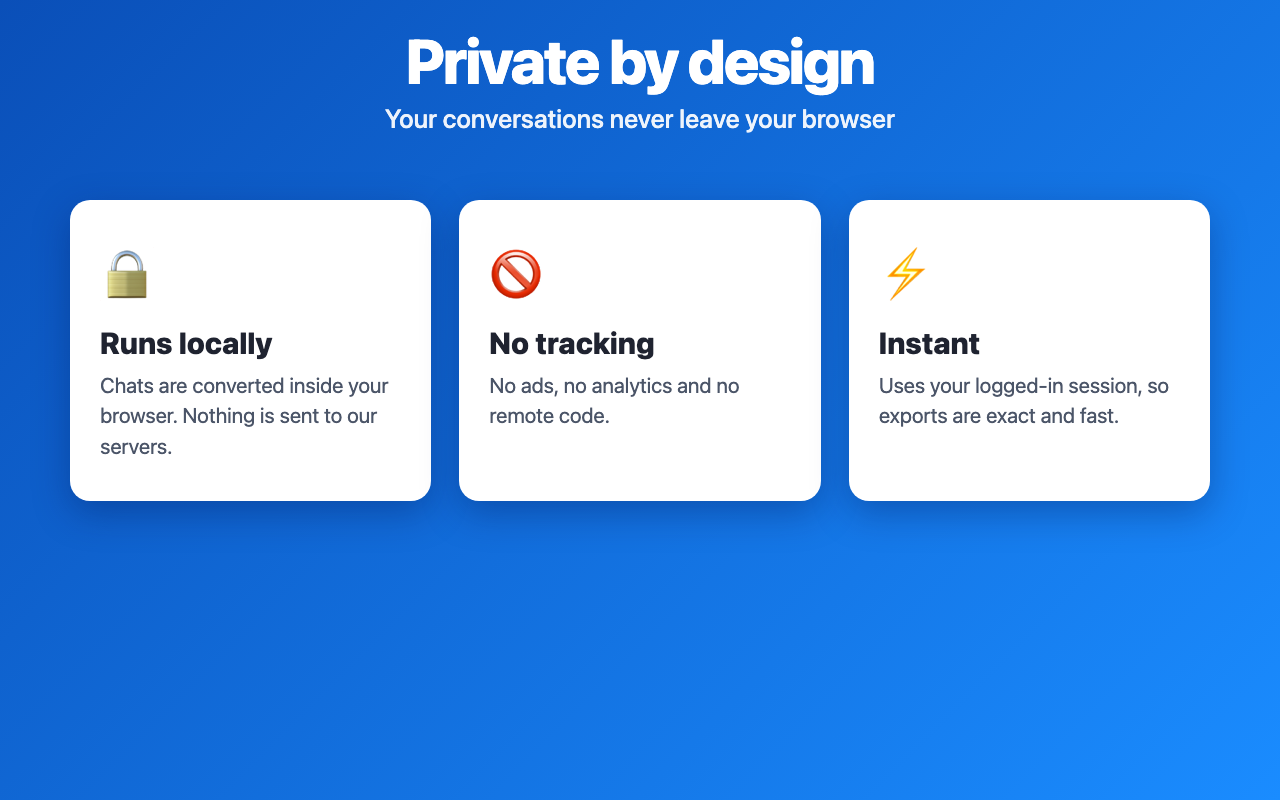
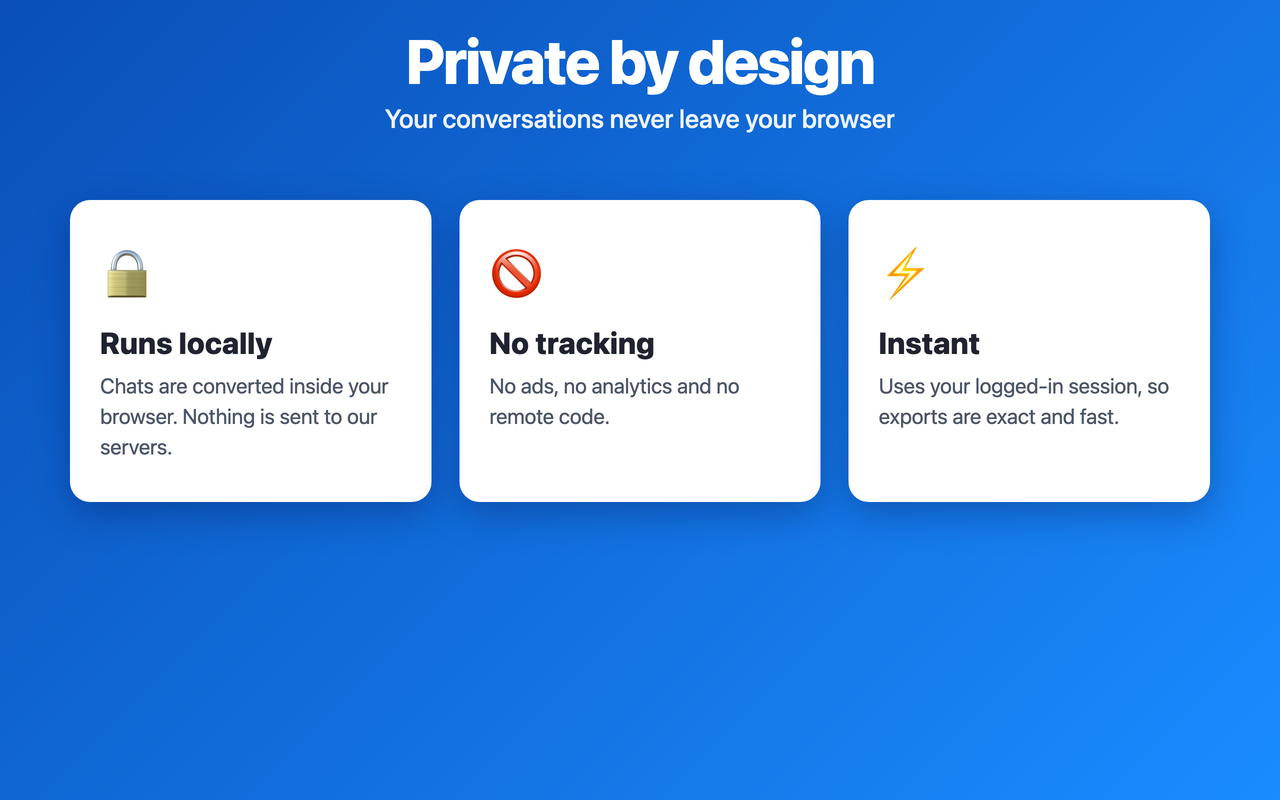
Render store screenshots from the real extension code at 3x and downsample for crisp output

diff --git a/store-assets/compose.js b/store-assets/compose.js
@@ -1,67 +1,59 @@
-// Composes the Web Store screenshots from REAL captures of the extension running on chatgpt.com (store-assets/raw/*.jpg, not committed).
-// Run: node store-assets/compose.js   (needs Google Chrome)
+// Composes the Web Store screenshots (1280x800) from high-DPI renders of the REAL extension UI.
+// 1) node store-assets/harness/capture.js   -> store-assets/raw/*.png (3x renders of the real content scripts)
+// 2) node store-assets/compose.js           -> store-assets/out/*.png (rendered at 2x, downsampled with Lanczos)
 const fs = require('fs'), cp = require('child_process');
 const dir = __dirname, out = dir + '/out', tmp = dir + '/.tmp';
 fs.mkdirSync(out, { recursive: true }); fs.mkdirSync(tmp, { recursive: true });
-const raw = (n) => 'file://' + dir + '/raw/' + n;
-const GRAD = 'linear-gradient(135deg,#0a4fb8 0%,#1a8cff 100%)';
-const page = (title, sub, body) => `<!doctype html><meta charset=utf-8><style>
-*{margin:0;padding:0;box-sizing:border-box}html,body{width:1280px;height:800px;overflow:hidden}
-body{background:${GRAD};color:#fff;font-family:-apple-system,BlinkMacSystemFont,"Segoe UI",Roboto,Helvetica,Arial,sans-serif;position:relative}
-.head{position:absolute;left:0;right:0;top:28px;text-align:center}.head h1{font-size:62px;font-weight:800;letter-spacing:-.03em;line-height:1.05}.head p{font-size:26px;font-weight:500;opacity:.93;margin-top:10px}
-.shot{position:absolute;overflow:hidden;border-radius:14px;box-shadow:0 18px 50px rgba(0,25,90,.55);background:#000}
-.shot img{position:absolute;display:block}
-.pill{position:absolute;background:#fff;color:#0a4fb8;font-weight:800;font-size:24px;padding:12px 22px;border-radius:99px;box-shadow:0 8px 24px rgba(0,25,90,.35)}
-ul.f{position:absolute;list-style:none;font-size:31px;font-weight:700;line-height:1.3}ul.f li{margin:15px 0}ul.f b{color:#bfe0ff}
-</style><div class=head><h1>${title}</h1><p>${sub}</p></div>${body}`;
-// crop(img, x,y,w,h, left,top, scale)
-const crop = (n, x, y, w, h, l, t, s = 1, extra = '') => `<div class=shot style="left:${l}px;top:${t}px;width:${w * s}px;height:${h * s}px;${extra}"><img src="${raw(n)}" style="width:${1568 * s}px;left:${-x * s}px;top:${-y * s}px"></div>`;
-
-const crop2 = (n, x, y, w, h, l, t, s) => `<div class=shot style="left:${l}px;top:${t}px;width:${w * s}px;height:${h * s}px"><img src="${raw(n)}" style="width:${1526 * s}px;left:${-x * s}px;top:${-y * s}px"></div>`;
-const shots = {
-  '1-export-menu': page('Export any ChatGPT chat in one click', 'PDF, Word, Markdown, HTML, Text, JSON, CSV or PNG',
-    crop('menu.jpg', 400, 40, 1168, 706, 56, 150, 0.92)),
-  '2-select-messages': page('Pick exactly the messages you need', 'Questions only, answers only, or tick your own',
-    crop('select.jpg', 400, 0, 1168, 746, 56, 150, 0.87)),
-  '3-pdf-settings': page('Customise your PDF', 'Page size, margins, theme, fonts, page numbers and more',
-    `<ul class=f style="left:90px;top:230px;width:620px"><li><b>✓</b> A4, Letter or Legal</li><li><b>✓</b> Light or dark theme</li><li><b>✓</b> Margins and font size</li><li><b>✓</b> Page numbers</li><li><b>✓</b> Table of contents</li><li><b>✓</b> Page break per prompt</li></ul>`
-    + crop2('settings2.jpg', 971, 60, 555, 684, 640, 150, 0.95)),
-  '4-formats': page('8 formats, nothing left behind', 'Code, tables, math, images and sources are kept',
-    crop2('menu2.jpg', 1215, 12, 263, 586, 800, 160, 1.0)
-    + `<ul class=f style="left:90px;top:210px;width:620px;font-size:34px"><li><b>PDF</b> · <b>Word</b> · <b>Markdown</b></li><li><b>HTML</b> · <b>Text</b> · <b>PNG</b></li><li><b>JSON</b> · <b>CSV</b></li><li style="font-size:26px;font-weight:600;opacity:.92;margin-top:30px">Or copy as rich text straight into Google Docs, Word or Notion</li></ul>`)
-};
-
-// ---- "reference style" shots: solid colour, big bold text, zoomed real UI crops bleeding off the bottom edge
-const SOLID = '#0b63c9', YEL = '#ffd23f';
-const solid = (body) => `<!doctype html><meta charset=utf-8><style>
-*{margin:0;padding:0;box-sizing:border-box}html,body{width:1280px;height:800px;overflow:hidden}
-body{background:${SOLID};font-family:-apple-system,BlinkMacSystemFont,"Segoe UI",Roboto,Helvetica,Arial,sans-serif;position:relative}
-.y{color:${YEL};font-weight:800;letter-spacing:-.01em;text-shadow:0 3px 0 #052e66}
-.bul{position:absolute;left:50px;top:36px;font-size:50px;line-height:1.2;width:1190px}.bul div{margin-bottom:2px}
-.shot{position:absolute;overflow:hidden;border-radius:14px 14px 0 0;box-shadow:0 0 0 3px rgba(255,255,255,.9),0 16px 40px rgba(0,20,70,.5);background:#000}
-.shot img{position:absolute;display:block}
-.logo{position:absolute;left:60px;top:40px;width:104px;border-radius:24px;box-shadow:0 6px 18px rgba(0,0,0,.35)}
-.t{position:absolute;left:186px;top:58px;font-size:56px;line-height:1}
-.list{position:absolute;left:60px;top:180px;font-size:66px;line-height:1.12}
-</style>${body}`;
-shots['hero-1-features'] = solid(`<div class="bul y"><div>- Export to PDF, Word, Markdown, HTML ...</div><div>- Export only the messages you need</div><div>- Customise your PDF and file names</div><div>- Keeps code, tables, math and images</div></div>`
-  + crop2('menu2.jpg', 1215, 12, 263, 560, 70, 320, 0.85) + crop2('select2.jpg', 971, 0, 555, 620, 330, 320, 0.8) + crop2('settings2.jpg', 971, 60, 555, 620, 800, 320, 0.8));
-shots['hero-2-formats'] = solid(`<img class=logo src="${raw('icon128.png')}"><div class="t y">ChatGPT Exporter</div>`
-  + `<div class="list y"><div>PDF</div><div>Word</div><div>Markdown</div><div>HTML</div><div>Text</div><div>CSV · JSON</div></div>`
-  + crop2('menu2.jpg', 1215, 12, 263, 586, 560, 214, 1.0) + crop2('select2.jpg', 971, 0, 555, 784, 850, 214, 0.78));
-
-const privacy = page('Private by design', 'Your conversations never leave your browser',
-  `<div style="position:absolute;left:70px;right:70px;top:200px;display:flex;gap:28px">${[['🔒', 'Runs locally', 'Chats are converted inside your browser. Nothing is sent to our servers.'], ['🚫', 'No tracking', 'No ads, no analytics and no remote code.'], ['⚡', 'Instant', 'Uses your logged-in session, so exports are exact and fast.']].map(c => `<div style="flex:1;background:#fff;color:#1f2330;border-radius:20px;padding:40px 30px;box-shadow:0 12px 36px rgba(0,25,90,.35)"><div style="font-size:54px">${c[0]}</div><div style="font-weight:800;font-size:30px;margin:14px 0 10px">${c[1]}</div><div style="font-size:21px;color:#4b5568;line-height:1.45">${c[2]}</div></div>`).join('')}</div>`);
-shots['6-private'] = privacy;
-if (fs.existsSync(dir + '/raw/export.png')) {
-  shots['5-export-result'] = page('Clean, ready-to-share documents', 'Code, tables and math come out perfectly formatted',
-    `<div class=shot style="left:290px;top:150px;width:700px;height:650px;border-radius:14px 14px 0 0;background:#fff"><img src="${raw('export.png')}" style="width:700px;left:0;top:0"></div>`);
-}
 const CHROME = '/Applications/Google Chrome.app/Contents/MacOS/Google Chrome';
+const raw = (n) => 'file://' + dir + '/raw/' + n;
+const dims = {}; // natural CSS size (px / 3) of each raw png
+for (const f of fs.readdirSync(dir + '/raw').filter((x) => x.endsWith('.png'))) {
+  const b = fs.readFileSync(dir + '/raw/' + f); dims[f] = [b.readUInt32BE(16) / 3, b.readUInt32BE(20) / 3];
+}
+// export document render (real HTML export) at 3x
+cp.execFileSync(CHROME, ['--headless=new', '--hide-scrollbars', '--window-size=700,1100', '--force-device-scale-factor=3', '--virtual-time-budget=5000', `--screenshot=${dir}/raw/export.png`, 'file://' + dir + '/raw/export.html'], { stdio: 'ignore' });
+dims['export.png'] = [700, 1100];
+
+const SOLID = '#0b63c9', YEL = '#ffd23f';
+const GRAD = 'linear-gradient(135deg,#0a4fb8 0%,#1a8cff 100%)';
+const base = (bg) => `<!doctype html><meta charset=utf-8><style>
+*{margin:0;padding:0;box-sizing:border-box}html,body{width:1280px;height:800px;overflow:hidden}
+body{background:${bg};color:#fff;font-family:-apple-system,BlinkMacSystemFont,"Segoe UI",Roboto,Helvetica,Arial,sans-serif;position:relative}
+.head{position:absolute;left:0;right:0;top:28px;text-align:center}.head h1{font-size:62px;font-weight:800;letter-spacing:-.03em;line-height:1.05}.head p{font-size:26px;font-weight:500;opacity:.93;margin-top:10px}
+.y{color:${YEL};font-weight:800;letter-spacing:-.01em;text-shadow:0 3px 0 #052e66}
+.bul{position:absolute;left:50px;top:36px;font-size:50px;line-height:1.2;width:1190px}
+.shot{position:absolute;overflow:hidden;border-radius:14px 14px 0 0;box-shadow:0 0 0 3px rgba(255,255,255,.92),0 16px 40px rgba(0,20,70,.5);background:#000}
+.shot.full{border-radius:14px}.shot img{display:block}
+.logo{position:absolute;left:60px;top:40px;width:104px;border-radius:24px;box-shadow:0 6px 18px rgba(0,0,0,.35)}
+.t{position:absolute;left:186px;top:58px;font-size:56px;line-height:1}.list{position:absolute;left:60px;top:180px;font-size:66px;line-height:1.12}
+ul.f{position:absolute;list-style:none;font-size:31px;font-weight:700;line-height:1.3}ul.f li{margin:15px 0}ul.f b{color:#bfe0ff}
+</style>`;
+// el(name, left, top, scale, maxHeight?)  - whole raw render shown at `scale` x its CSS size, clipped to maxHeight
+const el = (n, l, t, s, h, cls = '') => { const [w, hh] = dims[n]; return `<div class="shot ${cls}" style="left:${l}px;top:${t}px;width:${w * s}px;height:${Math.min(h || 9999, hh * s)}px"><img src="${raw(n)}" style="width:${w * s}px"></div>`; };
+const page = (title, sub, body, bg = GRAD) => base(bg) + `<div class=head><h1>${title}</h1><p>${sub}</p></div>${body}`;
+const browser = (inner) => `<div style="position:absolute;left:90px;right:90px;top:196px;bottom:0;border-radius:14px 14px 0 0;overflow:hidden;box-shadow:0 20px 60px rgba(0,20,80,.5);background:#fff"><div style="height:36px;background:#e8eaed;display:flex;align-items:center;gap:7px;padding:0 14px"><i style="width:11px;height:11px;border-radius:50%;background:#c4c7cc"></i><i style="width:11px;height:11px;border-radius:50%;background:#c4c7cc"></i><i style="width:11px;height:11px;border-radius:50%;background:#c4c7cc"></i><span style="margin-left:14px;background:#fff;border-radius:12px;padding:3px 16px;font-size:12px;color:#555">chatgpt.com/c/hash-map-collisions</span></div><div style="position:absolute;top:36px;left:0;right:0;bottom:0;overflow:hidden"><img src="${raw(inner)}" style="width:1100px;display:block"></div></div>`;
+
+const shots = {
+  'hero-1-features': base(SOLID) + `<div class="bul y"><div>- Export to PDF, Word, Markdown, HTML ...</div><div>- Export only the messages you need</div><div>- Customise your PDF and file names</div><div>- Keeps code, tables, math and images</div></div>`
+    + el('menu.png', 60, 322, 1.3, 520) + el('select.png', 330, 322, 1.15, 520) + el('settings-pdf.png', 790, 322, 1.15, 520),
+  'hero-2-formats': base(SOLID) + `<img class=logo src="${raw('icon128.png')}"><div class="t y">ChatGPT Exporter</div><div class="list y"><div>PDF</div><div>Word</div><div>Markdown</div><div>HTML</div><div>Text</div><div>CSV · JSON</div></div>`
+    + el('menu.png', 570, 190, 1.5, 700) + el('select.png', 860, 190, 1.1, 700),
+  '1-export-menu': page('Export any ChatGPT chat in one click', 'PDF, Word, Markdown, HTML, Text, JSON, CSV or PNG', browser('scene-menu.png')),
+  '2-select-messages': page('Pick exactly the messages you need', 'Questions only, answers only, or tick your own', browser('scene-select.png')),
+  '3-pdf-settings': page('Customise your PDF', 'Page size, margins, theme, fonts, page numbers and more',
+    `<ul class=f style="left:90px;top:230px;width:620px"><li><b>✓</b> A4, Letter or Legal</li><li><b>✓</b> Light or dark theme</li><li><b>✓</b> Margins and font size</li><li><b>✓</b> Page numbers</li><li><b>✓</b> Table of contents</li><li><b>✓</b> Page break per prompt</li></ul>` + el('settings-pdf.png', 740, 160, 1.12, 640)),
+  '4-formats': page('8 formats, nothing left behind', 'Code, tables, math, images and sources are kept',
+    `<ul class=f style="left:90px;top:210px;width:620px;font-size:34px"><li><b>PDF</b> · <b>Word</b> · <b>Markdown</b></li><li><b>HTML</b> · <b>Text</b> · <b>PNG</b></li><li><b>JSON</b> · <b>CSV</b></li><li style="font-size:26px;font-weight:600;opacity:.92;margin-top:30px">Or copy as rich text straight into Google Docs, Word or Notion</li></ul>` + el('menu.png', 800, 160, 1.4, 640)),
+  '5-export-result': page('Clean, ready-to-share documents', 'Code, tables and math come out perfectly formatted',
+    `<div class=shot style="left:290px;top:150px;width:700px;height:650px;background:#fff"><img src="${raw('export.png')}" style="width:700px"></div>`),
+  '6-private': page('Private by design', 'Your conversations never leave your browser',
+    `<div style="position:absolute;left:70px;right:70px;top:200px;display:flex;gap:28px">${[['🔒', 'Runs locally', 'Chats are converted inside your browser. Nothing is sent to our servers.'], ['🚫', 'No tracking', 'No ads, no analytics and no remote code.'], ['⚡', 'Instant', 'Uses your logged-in session, so exports are exact and fast.']].map((c) => `<div style="flex:1;background:#fff;color:#1f2330;border-radius:20px;padding:40px 30px;box-shadow:0 12px 36px rgba(0,25,90,.35)"><div style="font-size:54px">${c[0]}</div><div style="font-weight:800;font-size:30px;margin:14px 0 10px">${c[1]}</div><div style="font-size:21px;color:#4b5568;line-height:1.45">${c[2]}</div></div>`).join('')}</div>`)
+};
+fs.copyFileSync(dir + '/../icons/icon128.png', dir + '/raw/icon128.png');
 for (const [n, html] of Object.entries(shots)) {
   const f = `${tmp}/${n}.html`; fs.writeFileSync(f, html);
   const png = `${out}/${n}.png`;
-  cp.execFileSync(CHROME, ['--headless=new', '--disable-gpu', '--hide-scrollbars', '--window-size=1280,800', '--force-device-scale-factor=1', '--allow-file-access-from-files', `--screenshot=${png}`, 'file://' + f], { stdio: 'ignore' });
-  cp.execFileSync('python3', ['-c', `from PIL import Image;im=Image.open("${png}").convert("RGB").crop((0,0,1280,800));im.save("${png}")`]);
+  cp.execFileSync(CHROME, ['--headless=new', '--disable-gpu', '--hide-scrollbars', '--window-size=1280,800', '--force-device-scale-factor=2', '--allow-file-access-from-files', `--screenshot=${png}`, 'file://' + f], { stdio: 'ignore' });
+  cp.execFileSync('python3', ['-c', `from PIL import Image;im=Image.open("${png}").convert("RGB").crop((0,0,2560,1600)).resize((1280,800),Image.LANCZOS);im.save("${png}",optimize=True)`]);
   console.log(n);
 }

diff --git a/store-assets/harness/chat.html b/store-assets/harness/chat.html
@@ -1,0 +1,42 @@
+<!doctype html><html class="dark" lang="en"><head><meta charset="utf-8"><title>Hash Map Collisions Explained - ChatGPT</title>
+<style>
+*{box-sizing:border-box}html,body{margin:0;height:100%}body{background:#212121;color:#ececec;font:16px/1.6 -apple-system,BlinkMacSystemFont,"Segoe UI",Roboto,Helvetica,Arial,sans-serif;overflow:hidden}
+.app{display:flex;height:100%}.side{width:56px;background:#171717;display:flex;flex-direction:column;align-items:center;gap:22px;padding-top:20px}.side i{width:20px;height:20px;border:2px solid #d0d0d0;border-radius:6px;opacity:.8}
+.main{flex:1;overflow:hidden;position:relative}.thread{width:720px;margin:0 auto;padding:30px 0 120px}
+.u{display:flex;justify-content:flex-end;margin:6px 0 26px}.u .whitespace-pre-wrap{background:#303030;padding:10px 18px;border-radius:22px;max-width:75%}
+.markdown h2{font-size:22px;margin:0 0 10px}.markdown h3{font-size:18px;margin:22px 0 8px}.markdown p{margin:0 0 12px}
+pre{background:#0d0d0d;border-radius:12px;padding:0;margin:14px 0;overflow:hidden}pre .bar{background:#2f2f2f;padding:8px 16px;font-size:13px;color:#b4b4b4;display:flex;justify-content:space-between}pre code{display:block;padding:16px;font:13.5px/1.6 ui-monospace,Menlo,Consolas,monospace;color:#e6e6e6;white-space:pre}
+.k{color:#c586c0}.f{color:#dcdcaa}.s{color:#ce9178}.n{color:#b5cea8}.c{color:#6a9955}
+table{border-collapse:collapse;width:100%;margin:10px 0 16px;font-size:15px}th{text-align:left;padding:8px 6px;border-bottom:1px solid #444}td{padding:9px 6px;border-bottom:1px solid #333}
+code.i{background:#333;padding:2px 6px;border-radius:6px;font:14px ui-monospace,Menlo,monospace}.math{font-family:"Times New Roman",serif;font-style:italic}
+.input{position:absolute;left:50%;transform:translateX(-50%);bottom:20px;width:720px;height:52px;border-radius:26px;background:#2f2f2f;color:#9a9a9a;padding:13px 22px}
+</style></head><body><div class="app"><div class="side"><i></i><i></i><i></i><i></i><i></i></div><div class="main"><div class="thread" id="thread">
+<div class="u" data-message-author-role="user" data-message-id="m1"><div class="whitespace-pre-wrap">Explain how a hash map handles collisions. Include a short Python example and a table comparing chaining vs open addressing.</div></div>
+<div data-message-author-role="assistant" data-message-id="m2"><div class="markdown">
+<h2>How a Hash Map Handles Collisions</h2>
+<p>A <strong>hash map</strong> stores data as <strong>key–value pairs</strong>. It uses a hash function to convert a key into an index in an underlying array. When two keys land in the same slot you get a <strong>collision</strong>.</p>
+<pre><div class="bar"><span>Python</span><span>Copy</span></div><code><span class="k">class</span> <span class="f">HashMap</span>:
+    <span class="k">def</span> <span class="f">__init__</span>(self, size=<span class="n">8</span>):
+        self.buckets = [[] <span class="k">for</span> _ <span class="k">in</span> <span class="f">range</span>(size)]
+
+    <span class="k">def</span> <span class="f">put</span>(self, key, value):
+        bucket = self.buckets[<span class="f">hash</span>(key) % <span class="f">len</span>(self.buckets)]
+        <span class="k">for</span> pair <span class="k">in</span> bucket:
+            <span class="k">if</span> pair[<span class="n">0</span>] == key:
+                pair[<span class="n">1</span>] = value
+                <span class="k">return</span>
+        bucket.<span class="f">append</span>([key, value])</code></pre>
+<h3>Chaining vs open addressing</h3>
+<table><tr><th>Operation</th><th>Chaining</th><th>Open addressing</th></tr><tr><td>Lookup (average)</td><td><span class="math">O(1)</span></td><td><span class="math">O(1)</span></td></tr><tr><td>Lookup (worst case)</td><td><span class="math">O(n)</span></td><td><span class="math">O(n)</span></td></tr><tr><td>Memory</td><td>Extra list nodes</td><td>Single array</td></tr></table>
+<p>The load factor <code class="i">n / m</code> decides when to resize the table.</p></div></div>
+<div class="u" data-message-author-role="user" data-message-id="m3"><div class="whitespace-pre-wrap">Great. Now show how to resize the table when it gets full.</div></div>
+<div data-message-author-role="assistant" data-message-id="m4"><div class="markdown"><h2>Resizing the table</h2><p>A hash map usually resizes when its load factor passes a threshold such as 0.75. It allocates a larger array and re-inserts every entry.</p></div></div>
+</div><div class="input">Ask ChatGPT</div></div></div>
+<script>
+// Stub of the chrome.* APIs the content scripts use, so the REAL extension code runs outside the extension.
+const mem={};const area={get:async(k)=>{if(k==null)return {...mem};if(typeof k==='string')return k in mem?{[k]:mem[k]}:{};const o={};(Array.isArray(k)?k:Object.keys(k)).forEach(x=>{if(x in mem)o[x]=mem[x]});return o},set:async(o)=>{Object.assign(mem,o)},remove:async()=>{}};
+window.chrome={storage:{sync:area,local:area,onChanged:{addListener(){}}},runtime:{lastError:null,sendMessage(m,cb){cb&&cb(null)},onMessage:{addListener(){}},getURL:x=>x}};
+</script>
+<script src="/src/core/ns.js"></script><script src="/src/core/i18n.js"></script><script src="/src/core/util.js"></script><script src="/src/core/settings.js"></script><script src="/src/core/account.js"></script><script src="/src/core/html2md.js"></script><script src="/src/core/markdown.js"></script><script src="/src/core/zip.js"></script><script src="/src/core/assets.js"></script><script src="/src/adapters/chatgpt.js"></script><script src="/src/exporters/common.js"></script><script src="/src/exporters/htmlbuilder.js"></script><script src="/src/exporters/markdown.js"></script><script src="/src/exporters/text.js"></script><script src="/src/exporters/json.js"></script><script src="/src/exporters/csv.js"></script><script src="/src/exporters/html.js"></script><script src="/src/exporters/docx.js"></script><script src="/src/exporters/pdf.js"></script><script src="/src/exporters/index.js"></script><script src="/src/ui/settings-form.js"></script><script src="/src/ui/styles.js"></script><script src="/src/ui/bulk.js"></script><script src="/src/ui/panel.js"></script>
+<script>CE.adapters.chatgpt.match=()=>true;</script><script src="/src/content.js"></script>
+</body></html>

diff --git a/store-assets/harness/capture.js b/store-assets/harness/capture.js
@@ -1,0 +1,54 @@
+// Renders the REAL extension UI (content scripts + stylesheet) on a mock chat page at high DPI.
+// Run: node store-assets/harness/capture.js   (needs `npm i puppeteer-core` somewhere on NODE_PATH, and Google Chrome)
+const http = require('http'), fs = require('fs'), path = require('path');
+const puppeteer = require(process.env.PUPPETEER_PATH || 'puppeteer-core');
+const ROOT = path.resolve(__dirname, '../..'), OUT = path.resolve(__dirname, '../raw');
+fs.mkdirSync(OUT, { recursive: true });
+const server = http.createServer((req, res) => {
+  let p = decodeURIComponent(req.url.split('?')[0]);
+  if (/^\/c\//.test(p)) p = '/store-assets/harness/chat.html';
+  const f = path.join(ROOT, p);
+  fs.readFile(f, (e, d) => { if (e) { res.writeHead(404); return res.end(); } res.writeHead(200, { 'content-type': f.endsWith('.js') ? 'text/javascript' : f.endsWith('.html') ? 'text/html' : 'application/octet-stream' }); res.end(d); });
+}).listen(0);
+const sleep = (ms) => new Promise((r) => setTimeout(r, ms));
+(async () => {
+  const port = server.address().port;
+  const browser = await puppeteer.launch({ executablePath: '/Applications/Google Chrome.app/Contents/MacOS/Google Chrome', headless: 'new', args: ['--hide-scrollbars'] });
+  const page = await browser.newPage();
+  await page.setViewport({ width: 1100, height: 700, deviceScaleFactor: 3 });
+  await page.goto(`http://localhost:${port}/c/6acee611-9928-83ee-a608-c139cab2da2e`, { waitUntil: 'load' });
+  await sleep(1500);
+  const sr = () => page.evaluateHandle(() => document.getElementById('chat-exporter-root').shadowRoot);
+  const ev = (fn, ...a) => page.evaluate(fn, ...a);
+  const shot = async (name, sel, pad = 0) => {
+    const r = await ev((sel) => { const el = document.getElementById('chat-exporter-root').shadowRoot.querySelector(sel); const b = el.getBoundingClientRect(); return { x: b.x, y: b.y, width: b.width, height: b.height }; }, sel);
+    await page.screenshot({ path: `${OUT}/${name}.png`, clip: { x: Math.max(0, r.x - pad), y: Math.max(0, r.y - pad), width: r.width + pad * 2, height: r.height + pad * 2 } });
+    console.log(name, Math.round(r.width) + 'x' + Math.round(r.height));
+  };
+  await page.screenshot({ path: `${OUT}/scene-dock.png` });
+  // export menu
+  await ev(() => document.getElementById('chat-exporter-root').shadowRoot.querySelectorAll('.split')[1].querySelector('.caret').click());
+  await sleep(400);
+  await page.screenshot({ path: `${OUT}/scene-menu.png` });
+  console.log(await ev(() => JSON.stringify(document.getElementById('chat-exporter-root').shadowRoot.querySelector('.menu.open').getBoundingClientRect())));
+  // (an element-clip screenshot resizes the viewport, which closes the menu, so crop the full-page shot instead)
+  const mr = await ev(() => { const b = document.getElementById('chat-exporter-root').shadowRoot.querySelector('.menu.open').getBoundingClientRect(); return [b.x, b.y, b.width, b.height]; });
+  require('child_process').execFileSync('python3', ['-c', `from PIL import Image;im=Image.open("${OUT}/scene-menu.png");x,y,w,h=[v*3 for v in ${JSON.stringify(mr)}];im.crop((round(x),round(y),round(x+w),round(y+h))).save("${OUT}/menu.png")`]);
+  await page.mouse.click(10, 10); await sleep(300);
+  // select panel (answers preset)
+  await ev(() => document.getElementById('chat-exporter-root').shadowRoot.querySelectorAll('.split')[0].querySelector('.main').click());
+  await sleep(2500);
+  await ev(() => { const r = document.getElementById('chat-exporter-root').shadowRoot; [...r.querySelectorAll('.presets button')][2].click(); });
+  await sleep(500);
+  await page.screenshot({ path: `${OUT}/scene-select.png` });
+  await shot('select', '.panel');
+  // settings
+  await ev(() => { const r = document.getElementById('chat-exporter-root').shadowRoot; const b = r.querySelectorAll('.p-bar .iconbtn'); b[b.length - 1].click(); });
+  await sleep(600);
+  await shot('settings-top', '.panel');
+  await ev(() => { const r = document.getElementById('chat-exporter-root').shadowRoot; const st = r.querySelector('.settings'); const t = [...r.querySelectorAll('.cf-title')].find((e) => /PDF/i.test(e.textContent)); st.scrollTop = t.getBoundingClientRect().top - st.getBoundingClientRect().top + st.scrollTop - 6; });
+  await sleep(400);
+  await page.screenshot({ path: `${OUT}/scene-settings.png` });
+  await shot('settings-pdf', '.panel');
+  await browser.close(); server.close();
+})().catch((e) => { console.error(e); process.exit(1); });

diff --git a/STORE_LISTING.md b/STORE_LISTING.md
@@ -76,7 +76,7 @@ ChatGPT Exporter is an independent tool, not affiliated with, endorsed by or spo
 ```
 
 ## Images to upload (store-assets/out/)
-Screenshots (1280x800, real captures of the extension running on chatgpt.com, composed by `node store-assets/compose.js`), in this order: hero-1-features, hero-2-formats, 1-export-menu, 2-select-messages, 5-export-result, 3-pdf-settings, 4-formats, 6-private. Promo tiles: promo-small-440x280, promo-marquee-1400x560 (`node store-assets/build.js`).
+Screenshots (1280x800, real captures of the extension running on chatgpt.com, rendered from the real extension code: `node store-assets/harness/capture.js` (3x renders on a mock chat page, needs puppeteer-core) then `node store-assets/compose.js` (2x render downsampled to 1280x800)), in this order: hero-1-features, hero-2-formats, 1-export-menu, 2-select-messages, 5-export-result, 3-pdf-settings, 4-formats, 6-private. Promo tiles: promo-small-440x280, promo-marquee-1400x560 (`node store-assets/build.js`).
 
 ## Permission justifications (Privacy practices tab)
 - **Host access chatgpt.com, chat.openai.com:** Adds the Select/Export buttons to ChatGPT pages and reads the conversation the user chooses to export.
